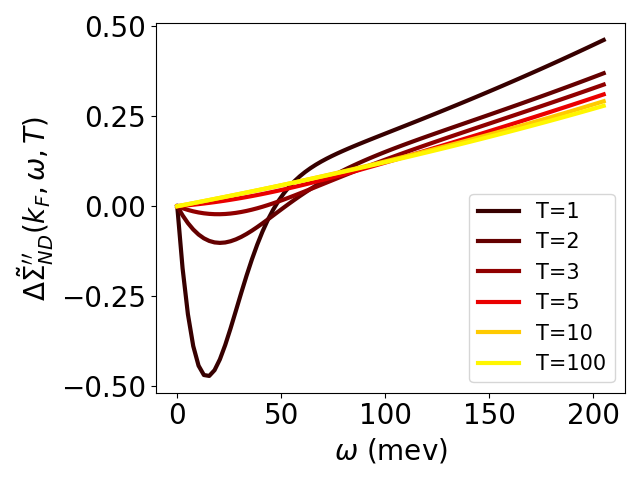
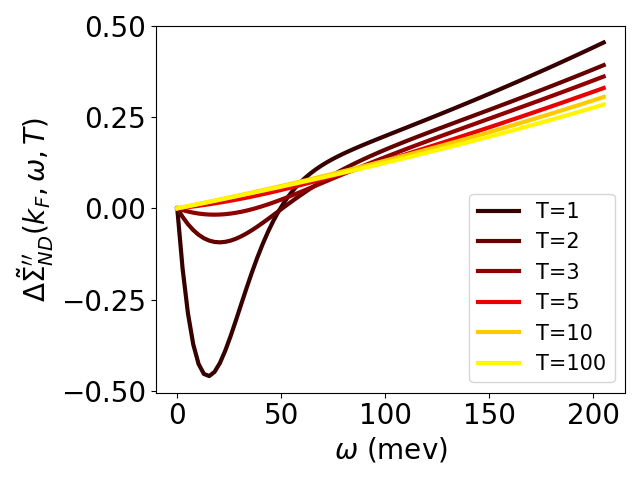
final figures

diff --git a/Modular/analytic_sigm_integrated_zero_saddle.py b/Modular/analytic_sigm_integrated_zero_saddle.py
@@ -1,4 +1,5 @@
 from tarfile import TarInfo
+from this import d
 import numpy as np
 import Lattice
 import StructureFactor
@@ -17,6 +18,7 @@ import pandas as pd
 from matplotlib import cm
 from matplotlib import pyplot
 from scipy.optimize import curve_fit
+from scipy import special
 
 
 # Print iterations progress
@@ -393,7 +395,7 @@ def main() -> int:
     print(np.max(ed.earr), np.min(ed.earr), ed.mu, np.size(ed.earr))
     
     nu=ed.earr[indmin:indmax]-ed.mu
-    ome=np.linspace(-6, 6, 2000)
+    ome=np.linspace(-2*np.pi, 2*np.pi, 2000)
     dome=ome[1]-ome[0]
     rhonu=ed.Dos[indmin:indmax]
     vals=6
@@ -401,7 +403,42 @@ def main() -> int:
     # Tvals=np.arange(1,10,1)
     Tvals=[1,2,3,5,10,100]
     # Tvals=np.linspace(1,100,vals)
+    
+    def ff3(ome,gam,c):
+        return c*np.exp(-gam*(ome**2)/2)
+    
+    def fexp(ome,b,e, gam):
+        return -gam*(ome**2)/2-np.log(np.exp(b*(ome-e))+1)
+    
+    def fppexp(ome, b , e, gam):
+        sech=1/np.cosh(b*(ome-e)/2)
+        return -gam-(b*sech/2)**2
+    
+    def saddle(ome,b , e, gam, maxom):
+        return np.exp(fexp(ome,b,e, gam))*2*maxom
+        
+    def saddle_2(ome, b , e, gam, maxom):
+        sqff2=np.sqrt(np.abs(fppexp(ome, b , e, gam)))
+        erfpart=2#special.erf(sqff2*(ome+maxom)/np.sqrt(2))-special.erf(sqff2*(ome-maxom)/np.sqrt(2))
+        flucpart=np.sqrt(np.pi/2)*erfpart/sqff2
+        return np.exp(fexp(ome,b,e, gam))*flucpart
+    
+    def saddle_om_ap( b , e, gam):
+        c=np.exp(b*e)
+        first=(1+c)/(2*b*c)
+        num=4*b*b*c+gam+2*c*gam+c*c*gam
+        den=b*b*c*c*gam
+        sec=np.sqrt(num/den)/2
+        return first-sec
+    def saddle_om_ap_2( b , e, gam):
+        c=np.exp(-b*e)
+        pre=(1+c)/(2*b)
+        cosh=np.cosh(b*e)
+        # insid=4*b*b*c/(gam*((1+c)**2))
+        insid=2*b*b/(gam*(1+cosh))
+        sq=np.sqrt(1+insid)
 
+        return pre*(1-sq)
     zerps=np.zeros(vals)
     ints=np.zeros(vals)
     Jcut=3
@@ -411,14 +448,40 @@ def main() -> int:
         for omega in ome:
             Siav=np.sum(SS.Dynamical_SF(KX,KY,np.abs(omega)))*ds/Vol_rec
             S.append(Siav)
-        # plt.plot(ome, S)
-        # plt.savefig("fff.png")
-        # plt.close()
+        popt, pcov = curve_fit(ff3, ome, S)
+        print('the optimal paramss are',popt)
         integ=[]
+        integ_pre=[]
+        omes=[]
+        omesan=[]
         for e in nu:
-            inti=np.trapz(np.array(S)/(np.exp((ome-e)/T)+1))*dome
+            inti_pre=np.trapz(ff3(ome,popt[0],popt[1])/(np.exp((ome-e)/T)+1))*dome
+            # integ.append(inti)
+            gam=popt[0]
+            eta=popt[1]
+            # omestar=ome[np.argmax(fexp(ome,1/T, e, gam))]
+            omestar=saddle_om_ap_2( 1/T , e, gam)
+            maxom=np.max(ome)
+            inti=eta*saddle_2(omestar, 1/T , e, gam, maxom)
+            print(inti, inti_pre, inti_pre/inti, omestar)
             integ.append(inti)
+            integ_pre.append(inti_pre)
+            omes.append(omestar)
+            omesan.append(saddle_om_ap( 1/T , e, gam))
         intres=np.array(integ)
+        intres_pre=np.array(integ_pre)
+           
+        # expart=np.exp(-nu/T)+1
+        # tauinv= (2*np.pi)*(J)*Kcou*Kcou*rhonu*intres*expart
+        # tauinv_pre= (2*np.pi)*(J)*Kcou*Kcou*rhonu*intres_pre*expart
+        
+        # plt.plot(tauinv)
+        # plt.plot(tauinv_pre)
+        # plt.savefig("integs"+str(T)+".png")
+        # plt.plot(omes)
+        # plt.plot(omesan)
+        # plt.savefig("omestar.png")
+        # plt.close()
         expart=np.exp(-nu/T)+1
         tauinv= (2*np.pi)*(J)*Kcou*Kcou*rhonu*intres*expart
         zerps[i]=tauinv[0]
@@ -427,7 +490,7 @@ def main() -> int:
             plt.plot(nu*J,tauinv , color=cm.hot(T/15), label='T='+str(T), lw=3)
         if T>50:
             plt.plot(nu*J,tauinv , color=cm.hot(11/15), label='T='+str(T), lw=3)
-
+    
         
     plt.ylabel(r"$\Delta \tilde{\Sigma}_{ND}''(k_F,\omega, T)$", size=20)
     plt.xlabel(r"$\omega$ (mev)", size=20)
@@ -436,8 +499,9 @@ def main() -> int:
     pyplot.locator_params(axis='y', nbins=5)
     pyplot.locator_params(axis='x', nbins=7)
     plt.legend(prop={'size': 15}, loc=4)
+    plt.ylim([-0.45,0.55])
     plt.tight_layout()
-    plt.savefig("local_ap.png")
+    plt.savefig("local_ap_gauss_sad4.png")
     
     zervals2=[4.28728628156091,3.568535348461114,3.250428028572101,2.9608646895816144,2.7295770140358697,2.4993255226025766]
     print(np.shape(zerps))
@@ -452,101 +516,9 @@ def main() -> int:
     pyplot.locator_params(axis='x', nbins=7)
     plt.legend(prop={'size': 15})
     plt.tight_layout()
-    plt.savefig("zeroval.png")
+    plt.savefig("zeroval_gauss_sad4.png")
     plt.close()
   
-    # Npoints_int=np.size(KX)
-    # ds=Vol_rec/Npoints_int
-    # ome=np.linspace(0.0001, 2*np.pi,400 )
-    # dome=ome[1]-ome[0]
-    # # Ts=[1,2,5,10,100]
-    # Ts=[1,5,100]
-    # INTS=[]
-
-    
-    
-    # def ff3(ome,b,c):
-    #     return c*np.exp(-b*(ome**2))
-    
-    
-    # for T in Ts:
-    #     chi_w=[]
-        
-    #     S=[]
-    #     # SS=StructureFactor.StructureFac_fit_F(T)
-    #     SS=StructureFactor.StructureFac_fit_no_diff_peak(T)
-    #     # SS=StructureFactor.StructureFac_diff_peak_fit(T)
-    #     # SS=StructureFactor.StructureFac_fit_no_diff_peak_cut(T,cut)
-    #     # S1=SS.Dynamical_SF(KX,KY,0.1)
-    #     # plt.scatter(KX,KY,c=S1, s=0.5)
-    #     # plt.colorbar()
-    #     # plt.savefig("DSF_nodiff_0.1_T_"+str(T)+".png")
-    #     # plt.close()
-        
-    #     # plt.scatter(KX,KY,c=(1-np.exp(-0.1/T))*S1, s=0.5)
-    #     # plt.colorbar()
-    #     # plt.savefig("chi_nodiff_0.1_T_"+str(T)+".png")
-    #     # plt.close()
-        
-        
-        
-    #     for omega in ome:
-    #         Siav=np.sum(SS.Dynamical_SF(KX,KY,omega))*ds/Vol_rec
-    #         chi_w.append(T*(1-np.exp(-omega/T))*Siav)
-    #         # chi_w.append(omega*Siav)
-    #         # chi_w.append(Siav)
-    #         S.append(Siav)
-    #     fac=np.sum(S)*dome
-    #     print(".......",fac,fac/3,dome)
-    #     cons=np.ones(200)
-    #     iii=70
-    #     ii=200
-    #     if T<50:
-    #         # m=(chi_w[iii]-chi_w[0])/(ome[iii]-ome[0])
-    #         plt.plot(ome, chi_w, color=cm.hot(T/15), label='T='+str(T), lw=1)
-    #         # popt, pcov = curve_fit(ff2, ome, S)
-    #         popt, pcov = curve_fit(ff3, ome, S)
-    #         print('the optimal paramss are',popt)
-    #         # plt.plot(ome, ff3(ome,popt[0],popt[1]), color=cm.hot(T/15), label='T='+str(T), lw=1, ls='--')
-    #         # plt.plot(ome, ome*ff3(ome,popt[0],popt[1]), color=cm.hot(T/15), label='T='+str(T), lw=1, ls='--')
-    #         plt.plot(ome, T*(1-np.exp(-ome/T))*ff3(ome,popt[0],popt[1]), color=cm.hot(T/15), label='T='+str(T), lw=1, ls='--')
-           
-            
-    #         # plt.plot(ome, T*(1-np.exp(-ome/T))*ff2(ome,popt[0],popt[1],popt[2]), color=cm.hot(T/15), label='T='+str(T), lw=1, ls='--')
-    #         # plt.plot(ome, ome*ff2(ome,popt[0],popt[1],popt[2]), color=cm.hot(T/15), label='T='+str(T), lw=1, ls='--')
-    #         # plt.plot(ome, ff2(ome,popt[0],popt[1],popt[2]), color=cm.hot(T/15), label='T='+str(T), lw=1, ls='--')
-
-    #     if T>50:
-    #         # m=(chi_w[iii]-chi_w[0])/(ome[iii]-ome[0])
-    #         plt.plot(ome, chi_w, color=cm.hot(11/15), label='T='+str(T), lw=1)
-    #         # popt, pcov = curve_fit(ff2, ome, S)
-    #         popt, pcov = curve_fit(ff3, ome, S)
-    #         print('the optimal paramss are',popt)
-    #         # plt.plot(ome, ff3(ome,popt[0],popt[1]), color=cm.hot(11/15), label='T='+str(T), lw=1, ls='--')
-    #         # plt.plot(ome, ome*ff3(ome,popt[0],popt[1]), color=cm.hot(11/15), label='T='+str(T), lw=1, ls='--')
-    #         plt.plot(ome, T*(1-np.exp(-ome/T))*ff3(ome,popt[0],popt[1]), color=cm.hot(11/15), label='T='+str(T), lw=1, ls='--')
-            
-    #         # plt.plot(ome, T*(1-np.exp(-ome/T))*ff2(ome,popt[0],popt[1],popt[2]), color=cm.hot(11/15), label='T='+str(T), lw=1, ls='--')
-    #         # plt.plot(ome, ome*ff2(ome,popt[0],popt[1],popt[2]), color=cm.hot(11/15), label='T='+str(T), lw=1, ls='--')
-    #         # plt.plot(ome, ff2(ome,popt[0],popt[1],popt[2]), color=cm.hot(11/15), label='T='+str(T), lw=1, ls='--')
-
-    #     INTS.append(np.sum(chi_w)*dome)
-        
-    #     print(fac,np.sum(chi_w)*dome, np.sum(ff(fac/3,ome))*dome, np.sum(ff3(ome,popt[0],popt[1]))*dome, "the total weight")
-        
-    # # plt.ylabel(r'$\langle S_{\overline{D}}(q,\omega)-S_D(q,\omega)\rangle_q$')
-    # # plt.ylabel(r'$\langle S(q,\omega)\rangle_q$')
-    # plt.axvline(ome[ii])
-    # plt.ylabel(r'$\langle S_{ND}(q,\omega)\rangle_q $', size=20)
-    # plt.xlabel(r"$\omega/J$", size=20)
-    # plt.xticks(size=20)
-    # plt.yticks(size=20)
-    # pyplot.locator_params(axis='y', nbins=5)
-    # pyplot.locator_params(axis='x', nbins=7)
-    # # plt.legend(prop={'size': 15}, loc=4)
-    # plt.tight_layout()
-    # plt.savefig("sftestpng")
-    # plt.close()
     
     
     

diff --git a/Modular/analytic_sigm_integrated_saddle.py b/Modular/analytic_sigm_integrated_saddle.py
@@ -17,6 +17,7 @@ import pandas as pd
 from matplotlib import cm
 from matplotlib import pyplot
 from scipy.optimize import curve_fit
+from scipy import special
 
 
 # Print iterations progress
@@ -393,7 +394,7 @@ def main() -> int:
     print(np.max(ed.earr), np.min(ed.earr), ed.mu, np.size(ed.earr))
     
     nu=ed.earr[indmin:indmax]-ed.mu
-    ome=np.linspace(-6, 6, 2000)
+    ome=np.linspace(-2*np.pi, 2*np.pi, 2000)
     dome=ome[1]-ome[0]
     rhonu=ed.Dos[indmin:indmax]
     vals=6
@@ -401,7 +402,26 @@ def main() -> int:
     # Tvals=np.arange(1,10,1)
     Tvals=[1,2,3,5,10,100]
     # Tvals=np.linspace(1,100,vals)
-
+    
+    def ff3(ome,gam,c):
+        return c*np.exp(-gam*(ome**2)/2)
+    
+    def fexp(ome,b,e, gam):
+        return -gam*(ome**2)/2-np.log(np.exp(b*(ome-e))+1)
+    
+    def fppexp(ome, b , e, gam):
+        sech=1/np.cosh(b*(ome-e)/2)
+        return -gam-(b*sech/2)**2
+    
+    def saddle(ome,b , e, gam, maxom):
+        return np.exp(fexp(ome,b,e, gam))*2*maxom
+        
+    def saddle_2(ome, b , e, gam, maxom):
+        sqff2=np.sqrt(np.abs(fppexp(ome, b , e, gam)))
+        erfpart=2#special.erf(sqff2*(ome+maxom)/np.sqrt(2))-special.erf(sqff2*(ome-maxom)/np.sqrt(2))
+        flucpart=np.sqrt(np.pi/2)*erfpart/sqff2
+        return np.exp(fexp(ome,b,e, gam))*flucpart
+    
     zerps=np.zeros(vals)
     ints=np.zeros(vals)
     Jcut=3
@@ -411,12 +431,18 @@ def main() -> int:
         for omega in ome:
             Siav=np.sum(SS.Dynamical_SF(KX,KY,np.abs(omega)))*ds/Vol_rec
             S.append(Siav)
-        # plt.plot(ome, S)
-        # plt.savefig("fff.png")
-        # plt.close()
+        popt, pcov = curve_fit(ff3, ome, S)
+        print('the optimal paramss are',popt)
         integ=[]
         for e in nu:
-            inti=np.trapz(np.array(S)/(np.exp((ome-e)/T)+1))*dome
+            inti_pre=np.trapz(ff3(ome,popt[0],popt[1])/(np.exp((ome-e)/T)+1))*dome
+            # integ.append(inti)
+            gam=popt[0]
+            eta=popt[1]
+            omestar=ome[np.argmax(fexp(ome,1/T, e, gam))]
+            maxom=np.max(ome)
+            inti=eta*saddle_2(omestar, 1/T , e, gam, maxom)
+            print(inti, inti_pre, inti_pre/inti, omestar)
             integ.append(inti)
         intres=np.array(integ)
         expart=np.exp(-nu/T)+1
@@ -437,7 +463,7 @@ def main() -> int:
     pyplot.locator_params(axis='x', nbins=7)
     plt.legend(prop={'size': 15}, loc=4)
     plt.tight_layout()
-    plt.savefig("local_ap.png")
+    plt.savefig("local_ap_gauss_sad2.png")
     
     zervals2=[4.28728628156091,3.568535348461114,3.250428028572101,2.9608646895816144,2.7295770140358697,2.4993255226025766]
     print(np.shape(zerps))
@@ -452,7 +478,7 @@ def main() -> int:
     pyplot.locator_params(axis='x', nbins=7)
     plt.legend(prop={'size': 15})
     plt.tight_layout()
-    plt.savefig("zeroval.png")
+    plt.savefig("zeroval_gauss_sad2.png")
     plt.close()
   
     # Npoints_int=np.size(KX)

diff --git a/Modular/analytic_sigm_integrated_fittedS.py b/Modular/analytic_sigm_integrated_fittedS.py
@@ -401,6 +401,11 @@ def main() -> int:
     # Tvals=np.arange(1,10,1)
     Tvals=[1,2,3,5,10,100]
     # Tvals=np.linspace(1,100,vals)
+    
+    def ff3(ome,b,c):
+        return c*np.exp(-b*(ome**2))
+    
+    
 
     zerps=np.zeros(vals)
     ints=np.zeros(vals)
@@ -411,12 +416,11 @@ def main() -> int:
         for omega in ome:
             Siav=np.sum(SS.Dynamical_SF(KX,KY,np.abs(omega)))*ds/Vol_rec
             S.append(Siav)
-        # plt.plot(ome, S)
-        # plt.savefig("fff.png")
-        # plt.close()
+        popt, pcov = curve_fit(ff3, ome, S)
+        print('the optimal paramss are',popt)
         integ=[]
         for e in nu:
-            inti=np.trapz(np.array(S)/(np.exp((ome-e)/T)+1))*dome
+            inti=np.trapz(ff3(ome,popt[0],popt[1])/(np.exp((ome-e)/T)+1))*dome
             integ.append(inti)
         intres=np.array(integ)
         expart=np.exp(-nu/T)+1
@@ -437,7 +441,7 @@ def main() -> int:
     pyplot.locator_params(axis='x', nbins=7)
     plt.legend(prop={'size': 15}, loc=4)
     plt.tight_layout()
-    plt.savefig("local_ap.png")
+    plt.savefig("local_ap_gauss.png")
     
     zervals2=[4.28728628156091,3.568535348461114,3.250428028572101,2.9608646895816144,2.7295770140358697,2.4993255226025766]
     print(np.shape(zerps))
@@ -452,7 +456,7 @@ def main() -> int:
     pyplot.locator_params(axis='x', nbins=7)
     plt.legend(prop={'size': 15})
     plt.tight_layout()
-    plt.savefig("zeroval.png")
+    plt.savefig("zeroval_gauss.png")
     plt.close()
   
     # Npoints_int=np.size(KX)
